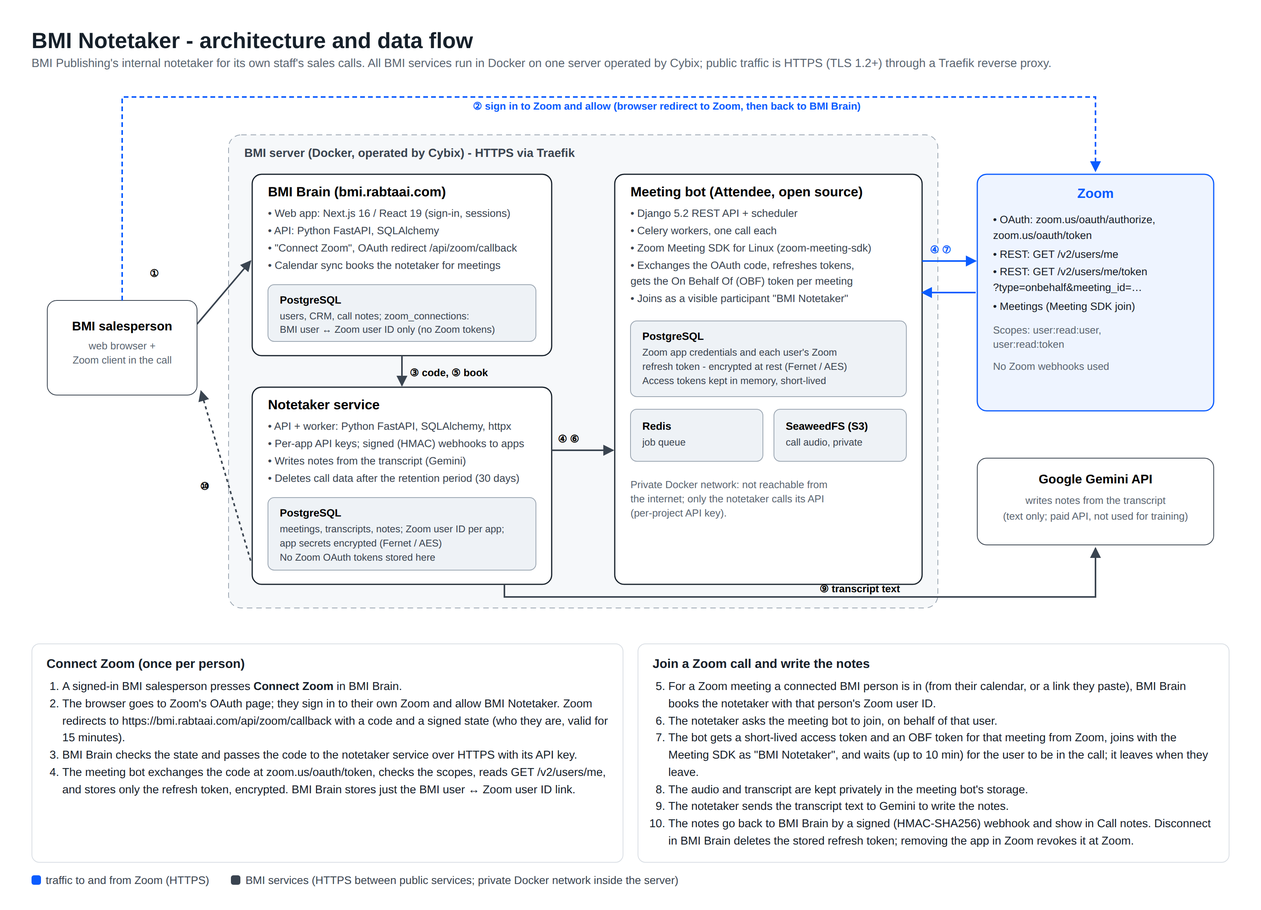
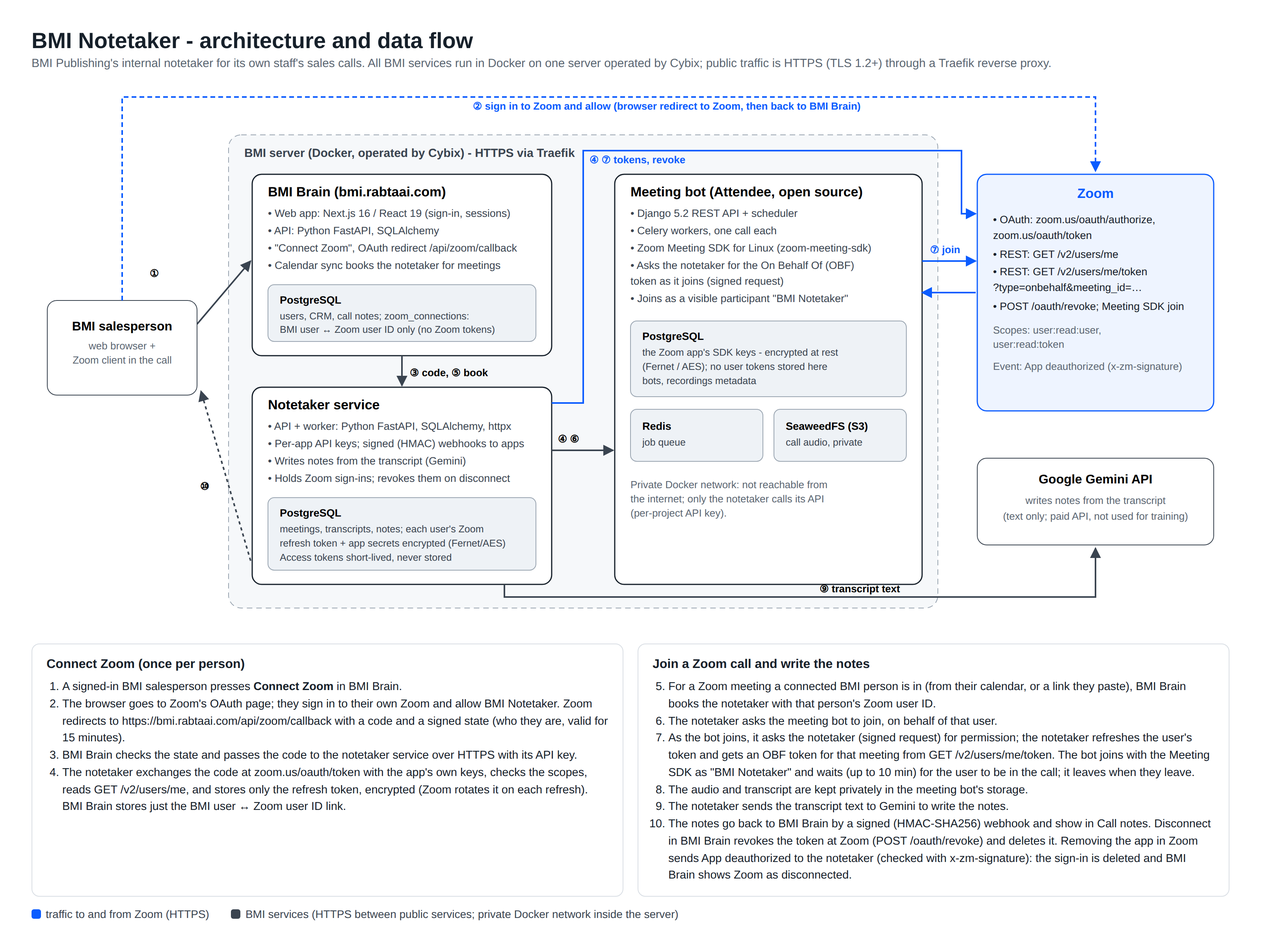
Zoom review: landing page, test plan, support hours, removal handled
- Public /zoom landing page with Connect Zoom, used for Zoom's 'Adding
  your app: From your site'. Signed-out visitors sign in first and come
  straight back.
- Public /zoom/test-plan for Zoom's reviewers: each scope and why, connect,
  send the notetaker, read the notes, and remove from both sides.
- Support page: hours, first-reply time, how to open a case, and what
  removing the app does to your data.
- When the notetaker says a Zoom sign-in has gone (removed in Zoom, or
  revoked), BMI Brain marks Zoom 'Reconnect' and notifies the person.
- Login follows a next= link to /api/... with a full page load.
- Updated architecture diagram, technical design answers and release notes
  in docs/zoom-review.

Claude-Session: https://claude.ai/code/session_01J85g9cS9eTm2Nwc22PmhDr

diff --git a/docs/zoom-review/architecture.html b/docs/zoom-review/architecture.html
@@ -46,12 +46,12 @@
  <text x="300" y="394" font-size="13.5" fill="#3a4450">• API + worker: Python FastAPI, SQLAlchemy, httpx</text>
  <text x="300" y="416" font-size="13.5" fill="#3a4450">• Per-app API keys; signed (HMAC) webhooks to apps</text>
  <text x="300" y="438" font-size="13.5" fill="#3a4450">• Writes notes from the transcript (Gemini)</text>
- <text x="300" y="460" font-size="13.5" fill="#3a4450">• Deletes call data after the retention period (30 days)</text>
+ <text x="300" y="460" font-size="13.5" fill="#3a4450">• Holds Zoom sign-ins; revokes them on disconnect</text>
  <rect x="300" y="480" width="340" height="92" rx="8" fill="#eef2f6" stroke="#9aa5b1"/>
  <text x="315" y="504" font-size="13.5" font-weight="700">PostgreSQL</text>
- <text x="315" y="524" font-size="12.5" fill="#3a4450">meetings, transcripts, notes; Zoom user ID per app;</text>
- <text x="315" y="542" font-size="12.5" fill="#3a4450">app secrets encrypted (Fernet / AES)</text>
- <text x="315" y="560" font-size="12.5" fill="#3a4450">No Zoom OAuth tokens stored here</text>
+ <text x="315" y="524" font-size="12.5" fill="#3a4450">meetings, transcripts, notes; each user's Zoom</text>
+ <text x="315" y="542" font-size="12.5" fill="#3a4450">refresh token + app secrets encrypted (Fernet/AES)</text>
+ <text x="315" y="560" font-size="12.5" fill="#3a4450">Access tokens short-lived, never stored</text>
 
  <!-- Attendee -->
  <rect x="740" y="70" width="390" height="520" rx="12" fill="#fff" stroke="#16202a" stroke-width="1.5"/>
@@ -59,14 +59,14 @@
  <text x="760" y="124" font-size="13.5" fill="#3a4450">• Django 5.2 REST API + scheduler</text>
  <text x="760" y="146" font-size="13.5" fill="#3a4450">• Celery workers, one call each</text>
  <text x="760" y="168" font-size="13.5" fill="#3a4450">• Zoom Meeting SDK for Linux (zoom-meeting-sdk)</text>
- <text x="760" y="190" font-size="13.5" fill="#3a4450">• Exchanges the OAuth code, refreshes tokens,</text>
- <text x="760" y="210" font-size="13.5" fill="#3a4450">   gets the On Behalf Of (OBF) token per meeting</text>
+ <text x="760" y="190" font-size="13.5" fill="#3a4450">• Asks the notetaker for the On Behalf Of (OBF)</text>
+ <text x="760" y="210" font-size="13.5" fill="#3a4450">   token as it joins (signed request)</text>
  <text x="760" y="232" font-size="13.5" fill="#3a4450">• Joins as a visible participant "BMI Notetaker"</text>
  <rect x="760" y="256" width="350" height="96" rx="8" fill="#eef2f6" stroke="#9aa5b1"/>
  <text x="775" y="280" font-size="13.5" font-weight="700">PostgreSQL</text>
- <text x="775" y="300" font-size="12.5" fill="#3a4450">Zoom app credentials and each user's Zoom</text>
- <text x="775" y="318" font-size="12.5" fill="#3a4450">refresh token - encrypted at rest (Fernet / AES)</text>
- <text x="775" y="336" font-size="12.5" fill="#3a4450">Access tokens kept in memory, short-lived</text>
+ <text x="775" y="300" font-size="12.5" fill="#3a4450">the Zoom app's SDK keys - encrypted at rest</text>
+ <text x="775" y="318" font-size="12.5" fill="#3a4450">(Fernet / AES); no user tokens stored here</text>
+ <text x="775" y="336" font-size="12.5" fill="#3a4450">bots, recordings metadata</text>
  <rect x="760" y="368" width="168" height="66" rx="8" fill="#eef2f6" stroke="#9aa5b1"/>
  <text x="775" y="394" font-size="13.5" font-weight="700">Redis</text>
  <text x="775" y="414" font-size="12.5" fill="#3a4450">job queue</text>
@@ -85,10 +85,10 @@
  <text x="1220" y="176" font-size="13.5" fill="#16202a">• REST: GET /v2/users/me</text>
  <text x="1220" y="198" font-size="13.5" fill="#16202a">• REST: GET /v2/users/me/token</text>
  <text x="1220" y="218" font-size="13.5" fill="#16202a">   ?type=onbehalf&amp;meeting_id=…</text>
- <text x="1220" y="242" font-size="13.5" fill="#16202a">• Meetings (Meeting SDK join)</text>
+ <text x="1220" y="242" font-size="13.5" fill="#16202a">• POST /oauth/revoke; Meeting SDK join</text>
  <text x="1220" y="272" font-size="13" fill="#5b6672">Scopes: user:read:user,</text>
  <text x="1220" y="290" font-size="13" fill="#5b6672">user:read:token</text>
- <text x="1220" y="318" font-size="13" fill="#5b6672">No Zoom webhooks used</text>
+ <text x="1220" y="318" font-size="13" fill="#5b6672">Event: App deauthorized (x-zm-signature)</text>
 
  <!-- Google -->
  <rect x="1200" y="430" width="300" height="110" rx="12" fill="#fff" stroke="#3a4450"/>
@@ -97,6 +97,8 @@
  <text x="1350" y="508" font-size="13" text-anchor="middle" fill="#5b6672">(text only; paid API, not used for training)</text>
 
  <!-- arrows -->
+ <path d="M 660 360 L 700 360 L 700 40 L 1180 40 L 1180 120 L 1198 120" fill="none" stroke="#0b5cff" stroke-width="2" marker-end="url(#z)"/>
+ <text x="708" y="56" font-size="13" fill="#0b5cff" font-weight="700">④ ⑦ tokens, revoke</text>
  <line x1="210" y1="260" x2="278" y2="180" stroke="#3a4450" stroke-width="2" marker-end="url(#a)"/>
  <text x="150" y="200" font-size="13" font-weight="700">①</text>
  <path d="M 115 230 L 115 -28 L 1350 -28 L 1350 66" fill="none" stroke="#0b5cff" stroke-width="2" stroke-dasharray="6 4" marker-end="url(#z)"/>
@@ -107,7 +109,7 @@
  <text x="668" y="410" font-size="13" font-weight="700">④ ⑥</text>
  <line x1="1130" y1="180" x2="1198" y2="180" stroke="#0b5cff" stroke-width="2" marker-end="url(#z)"/>
  <line x1="1198" y1="220" x2="1130" y2="220" stroke="#0b5cff" stroke-width="2" marker-end="url(#z)"/>
- <text x="1140" y="170" font-size="13" fill="#0b5cff" font-weight="700">④ ⑦</text>
+ <text x="1140" y="170" font-size="13" fill="#0b5cff" font-weight="700">⑦ join</text>
  <path d="M 600 590 L 600 606 L 1350 606 L 1350 544" fill="none" stroke="#3a4450" stroke-width="2" marker-end="url(#a)"/>
  <text x="1000" y="600" font-size="13" font-weight="700">⑨ transcript text</text>
  <line x1="278" y1="560" x2="215" y2="345" stroke="#3a4450" stroke-width="2" marker-end="url(#a)" stroke-dasharray="4 4"/>
@@ -119,15 +121,15 @@
   <li>A signed-in BMI salesperson presses <b>Connect Zoom</b> in BMI Brain.</li>
   <li>The browser goes to Zoom's OAuth page; they sign in to their own Zoom and allow BMI Notetaker. Zoom redirects to https://bmi.rabtaai.com/api/zoom/callback with a code and a signed state (who they are, valid for 15 minutes).</li>
   <li>BMI Brain checks the state and passes the code to the notetaker service over HTTPS with its API key.</li>
-  <li>The meeting bot exchanges the code at zoom.us/oauth/token, checks the scopes, reads GET /v2/users/me, and stores only the refresh token, encrypted. BMI Brain stores just the BMI user ↔ Zoom user ID link.</li>
+  <li>The notetaker exchanges the code at zoom.us/oauth/token with the app's own keys, checks the scopes, reads GET /v2/users/me, and stores only the refresh token, encrypted (Zoom rotates it on each refresh). BMI Brain stores just the BMI user ↔ Zoom user ID link.</li>
  </ol></div>
  <div><h3>Join a Zoom call and write the notes</h3><ol start="5">
   <li>For a Zoom meeting a connected BMI person is in (from their calendar, or a link they paste), BMI Brain books the notetaker with that person's Zoom user ID.</li>
   <li>The notetaker asks the meeting bot to join, on behalf of that user.</li>
-  <li>The bot gets a short-lived access token and an OBF token for that meeting from Zoom, joins with the Meeting SDK as "BMI Notetaker", and waits (up to 10 min) for the user to be in the call; it leaves when they leave.</li>
+  <li>As the bot joins, it asks the notetaker (signed request) for permission; the notetaker refreshes the user's token and gets an OBF token for that meeting from GET /v2/users/me/token. The bot joins with the Meeting SDK as "BMI Notetaker" and waits (up to 10 min) for the user to be in the call; it leaves when they leave.</li>
   <li>The audio and transcript are kept privately in the meeting bot's storage.</li>
   <li>The notetaker sends the transcript text to Gemini to write the notes.</li>
-  <li>The notes go back to BMI Brain by a signed (HMAC-SHA256) webhook and show in Call notes. Disconnect in BMI Brain deletes the stored refresh token; removing the app in Zoom revokes it at Zoom.</li>
+  <li>The notes go back to BMI Brain by a signed (HMAC-SHA256) webhook and show in Call notes. Disconnect in BMI Brain revokes the token at Zoom (POST /oauth/revoke) and deletes it. Removing the app in Zoom sends App deauthorized to the notetaker (checked with x-zm-signature): the sign-in is deleted and BMI Brain shows Zoom as disconnected.</li>
  </ol></div>
 </div>
 <div class="legend"><span><b style="background:#0b5cff"></b>traffic to and from Zoom (HTTPS)</span><span><b style="background:#3a4450"></b>BMI services (HTTPS between public services; private Docker network inside the server)</span></div>

diff --git a/frontend/src/app/(public)/zoom/test-plan/page.tsx b/frontend/src/app/(public)/zoom/test-plan/page.tsx
@@ -1,0 +1,66 @@
+import type { Metadata } from "next";
+import { LegalPage, Section } from "@/components/legal-page";
+import { LEGAL } from "@/content/legal";
+
+export const metadata: Metadata = { title: `Zoom review test plan - ${LEGAL.notetaker}` };
+
+/** Public: the step-by-step test plan for Zoom's Marketplace reviewers (no passwords here - the reviewer login is
+ * given in the submission's "Test account and credentials" box). */
+export default function ZoomTestPlanPage() {
+  return (
+    <LegalPage title="Test plan for Zoom reviewers" updated={LEGAL.updated}
+      intro={`How to test ${LEGAL.notetaker}: connecting a Zoom account, the notetaker joining a Zoom meeting on that person's behalf, the notes it writes, and removing the app. It takes about 15 minutes. There is one kind of user (a BMI salesperson); the reviewer login is in the submission's "Test account and credentials".`}>
+      <Section title="What you need">
+        <ul>
+          <li>The BMI Brain reviewer login from the submission. It can only see test clients, not real BMI data.</li>
+          <li>A Zoom account to connect (the reviewer&apos;s own is fine), and a second Zoom account or device to join the meeting as a guest, so there is someone to talk to.</li>
+        </ul>
+      </Section>
+
+      <Section title="Scopes and why they're used">
+        <ul>
+          <li><b>user:read:user</b> (View a user): once, when connecting, to read the Zoom user ID and account ID (GET /v2/users/me), so we know whose Zoom it is.</li>
+          <li><b>user:read:token</b> (View a user&apos;s token): just before each Zoom meeting, to get the &quot;On Behalf Of&quot; token for that meeting (GET /v2/users/me/token?type=onbehalf&amp;meeting_id=…). Zoom requires it for notetakers to join meetings outside their own account; the notetaker can only join once that user is in the meeting.</li>
+          <li>No other scopes. Event subscription: &quot;App deauthorized&quot; only.</li>
+        </ul>
+      </Section>
+
+      <Section title="1. Connect Zoom (tests authorisation and user:read:user)">
+        <ul>
+          <li>Go to <a className="underline" href="/zoom">bmi.rabtaai.com/zoom</a> and press <b>Connect Zoom</b>. Sign in to BMI Brain with the reviewer login when asked.</li>
+          <li>Zoom&apos;s consent screen opens: sign in to Zoom and press <b>Allow</b>.</li>
+          <li>You land on <b>Call notes, Meetings</b>. A green message says &quot;Zoom connected&quot;, and under <b>Your calendars</b> the <b>Zoom</b> row says &quot;Connected - the notetaker can join your Zoom calls&quot;.</li>
+        </ul>
+      </Section>
+
+      <Section title="2. Send the notetaker into a Zoom meeting (tests user:read:token)">
+        <ul>
+          <li>Start a Zoom meeting from the Zoom account you connected, and copy its invite link.</li>
+          <li>In BMI Brain, on <b>Call notes, Meetings</b>, paste the link into <b>Send the notetaker</b> (optionally add a title, e.g. &quot;Zoom review&quot;) and press <b>Send</b>.</li>
+          <li>Within a couple of minutes &quot;BMI Notetaker&quot; asks to join the meeting. Admit it from the waiting room if there is one. It shows in the participant list.</li>
+          <li>Talk for a minute or two with the second account, e.g. about booking an advert in a magazine issue, a price and a follow-up date.</li>
+          <li>Leave the meeting as the connected user: the notetaker leaves too (Zoom ends its session when the authorising user leaves).</li>
+        </ul>
+      </Section>
+
+      <Section title="3. Read the notes">
+        <ul>
+          <li>Open <b>Call notes, Recorded calls</b> and the call. Within a few minutes of the meeting ending its status becomes Completed.</li>
+          <li>You see a summary, actions with who does them and when, money and dates mentioned, and the full transcript with speaker names.</li>
+        </ul>
+      </Section>
+
+      <Section title="4. Remove the app (tests revoking and deauthorisation)">
+        <ul>
+          <li><b>From BMI Brain:</b> on <b>Call notes, Meetings, Your calendars</b>, next to Zoom press <b>Disconnect</b> and confirm. The token is revoked at Zoom (POST /oauth/revoke) and deleted; the row shows &quot;Connect Zoom&quot; again.</li>
+          <li><b>From Zoom:</b> connect again (step 1), then in the Zoom App Marketplace go to <b>Manage, Added Apps</b>, find {LEGAL.notetaker} and press <b>Remove</b>. Zoom sends the App deauthorized event; the sign-in is deleted, and BMI Brain shows Zoom as needing reconnection with a notification.</li>
+          <li>Either way, sending the notetaker to a Zoom link now asks you to connect Zoom first.</li>
+        </ul>
+      </Section>
+
+      <Section title="Documentation and contacts">
+        <p>User documentation (adding, using, removing, troubleshooting): <a className="underline" href="/support">bmi.rabtaai.com/support</a>. Privacy: <a className="underline" href="/privacy">bmi.rabtaai.com/privacy</a>. Questions during the review: <a className="underline" href={`mailto:${LEGAL.supportEmail}`}>{LEGAL.supportEmail}</a>.</p>
+      </Section>
+    </LegalPage>
+  );
+}

diff --git a/frontend/src/app/(public)/support/page.tsx b/frontend/src/app/(public)/support/page.tsx
@@ -10,15 +10,23 @@ export default function SupportPage() {
   return (
     <LegalPage title="Support" updated={LEGAL.updated}
       intro={`Help with ${LEGAL.product} and ${LEGAL.notetaker}. Signed-in BMI staff can also press the "?" Help button in the app, ask the Brain, or send Feedback from any page.`}>
-      <Section title="Contact us">
-        <p>Email {mail}. We reply on working days, usually the same day. Tell us what you were doing and, if you can, include a screenshot.</p>
+      <Section id="contact" title="Contact us">
+        <ul>
+          <li><b>Email:</b> {mail}. Every email opens a support case; you get a reply from a person, not an automatic one.</li>
+          <li><b>Hours:</b> {LEGAL.supportHours}.</li>
+          <li><b>First reply:</b> {LEGAL.firstReply}, and usually the same day. If the notetaker can&apos;t join calls at all, put &quot;Urgent&quot; in the subject and we&apos;ll look at it first.</li>
+          <li><b>Signed in to BMI Brain?</b> Press <b>Feedback</b> on any page to send it straight to the team, with a screenshot.</li>
+        </ul>
+        <p>Tell us what you were doing, which call it was, and if you can, include a screenshot.</p>
       </Section>
 
       <Section id="connect-zoom" title="Connect your Zoom">
+        <p><b>You need:</b> a BMI Brain login (BMI staff only) and your own Zoom account - a free one is fine.</p>
         <ul>
           <li>Sign in to BMI Brain and open <b>Call notes</b>, then <b>Meetings</b>.</li>
           <li>Under <b>Your calendars</b>, next to <b>Zoom</b>, press <b>Connect Zoom</b>.</li>
           <li>Sign in to Zoom with your own account and press <b>Allow</b>. You&apos;re taken back to BMI Brain, which shows Zoom as connected.</li>
+          <li>Or start from <a className="underline" href="/zoom">bmi.rabtaai.com/zoom</a> and press <b>Connect Zoom</b> (you&apos;ll be asked to sign in to BMI Brain first if you aren&apos;t).</li>
         </ul>
         <p>From then on, {LEGAL.notetaker} can join your Zoom calls. It joins once you&apos;re in the call and stops if you leave, so stay until the end.</p>
       </Section>
@@ -36,11 +44,18 @@ export default function SupportPage() {
           <li><b>In BMI Brain:</b> Call notes, Meetings, Your calendars, next to Zoom press <b>Disconnect</b>.</li>
           <li><b>Or in Zoom:</b> sign in at marketplace.zoom.us, choose <b>Manage</b>, then <b>Added Apps</b>, find {LEGAL.notetaker} and press <b>Remove</b>.</li>
         </ul>
-        <p>Either way, {LEGAL.notetaker} can&apos;t join your Zoom calls any more and BMI Brain stops using your Zoom permission. Notes from earlier calls stay in BMI Brain; email {mail} to have them deleted.</p>
+        <p><b>What removing it does:</b></p>
+        <ul>
+          <li>{LEGAL.notetaker} can no longer join your Zoom calls. Any Zoom call it was booked for won&apos;t be recorded.</li>
+          <li>Your Zoom permission is revoked at Zoom and deleted from our systems straight away. If you remove it in Zoom, Zoom tells us and we delete it the same way.</li>
+          <li>Recordings and transcripts of earlier calls are deleted after 30 days as usual. The written notes stay in BMI Brain as part of the client&apos;s history; email {mail} if you&apos;d like them deleted.</li>
+          <li>Meet and Teams calls aren&apos;t affected. You can connect Zoom again at any time.</li>
+        </ul>
       </Section>
 
       <Section title="Something's not right">
         <ul>
+          <li><b>Connect Zoom shows an error:</b> make sure you&apos;re signed in to Zoom with your own account (sign out of zoom.us first if someone else&apos;s is open) and try again.</li>
           <li><b>The notetaker didn&apos;t join a Zoom call:</b> check Zoom shows as connected (not &quot;Needs reconnecting&quot;), that you joined the call, and that someone let it in from the waiting room.</li>
           <li><b>No notes after a call:</b> they can take a few minutes. If nobody spoke, there are none.</li>
           <li><b>Anything else:</b> email {mail}.</li>

diff --git a/frontend/src/app/(public)/zoom/page.tsx b/frontend/src/app/(public)/zoom/page.tsx
@@ -1,0 +1,43 @@
+import type { Metadata } from "next";
+import { getSession } from "@/lib/session";
+import { LegalPage, Section } from "@/components/legal-page";
+import { Button } from "@/components/ui/button";
+import { LEGAL } from "@/content/legal";
+
+export const metadata: Metadata = { title: `${LEGAL.notetaker} for Zoom - ${LEGAL.product}` };
+
+/** Public: the Zoom app's landing page ("Adding your app": From your site). Signed-in staff connect Zoom from here;
+ * anyone else is told what it is and who to contact. */
+export default async function ZoomLandingPage() {
+  const session = await getSession();
+  return (
+    <LegalPage title={`${LEGAL.notetaker} for Zoom`} updated={LEGAL.updated}
+      intro={`${LEGAL.notetaker} joins your Zoom sales calls as a visible participant and writes up the notes in ${LEGAL.product}: a summary, the actions agreed and who does them, and the full transcript, saved onto the client's history. It's ${LEGAL.owner}'s own tool, for BMI staff.`}>
+      <div className="flex flex-wrap items-center gap-3">
+        <Button nativeButton={false} render={<a href="/api/zoom/connect" />}>Connect Zoom</Button>
+        <span className="text-sm text-muted-foreground">
+          {session ? `Signed in as ${session.name || session.email}.` : "You'll be asked to sign in to BMI Brain first."}
+        </span>
+      </div>
+
+      <Section title="What it does">
+        <ul>
+          <li>Joins the Zoom meetings on your calendar (you can skip any), or any Zoom link you send it.</li>
+          <li>Joins on your behalf, once you&apos;re in the call, and leaves when you leave. Everyone in the call can see it.</li>
+          <li>Writes the notes in BMI Brain after the call: summary, actions, money and dates mentioned, and the transcript.</li>
+        </ul>
+      </Section>
+
+      <Section title="Before you start">
+        <ul>
+          <li>A BMI Brain login. {LEGAL.product} is for {LEGAL.owner} staff only; if you work at BMI and don&apos;t have one, ask your manager.</li>
+          <li>Your own Zoom account (a free one is fine).</li>
+        </ul>
+      </Section>
+
+      <Section title="Help">
+        <p>Step-by-step guides for connecting, using and removing it are on the <a className="underline" href="/support">Support</a> page. How your information is handled: <a className="underline" href="/privacy">Privacy</a>.</p>
+      </Section>
+    </LegalPage>
+  );
+}

diff --git a/frontend/src/app/api/zoom/connect/route.ts b/frontend/src/app/api/zoom/connect/route.ts
@@ -10,7 +10,7 @@ export async function GET(request: Request) {
   const session = await getSession();
   const url = new URL(request.url);
   const base = publicBase(request);
-  if (!session) return NextResponse.redirect(new URL("/login", base));
+  if (!session) return NextResponse.redirect(new URL("/login?next=/api/zoom/connect", base));
   const returnTo = url.searchParams.get("return_to") || "/calls/meetings";
   try {
     const { url: authorize } = await backendFetch<{ url: string }>(`/api/zoom/start?return_to=${encodeURIComponent(returnTo)}`);

diff --git a/frontend/src/app/login/login-form.tsx b/frontend/src/app/login/login-form.tsx
@@ -39,7 +39,14 @@ export function LoginForm() {
       return;
     }
 
-    router.push(searchParams.get("next") || "/");
+    const next = searchParams.get("next") || "/";
+    // only our own pages; a sign-in link (e.g. Connect Zoom, /api/zoom/connect) needs a full page load
+    const safe = next.startsWith("/") && !next.startsWith("//") ? next : "/";
+    if (safe.startsWith("/api/")) {
+      window.location.assign(safe);
+      return;
+    }
+    router.push(safe);
     router.refresh();
   }
 

diff --git a/frontend/src/content/legal.ts b/frontend/src/content/legal.ts
@@ -6,6 +6,9 @@ export const LEGAL = {
   owner: "BMI Publishing Ltd",
   builder: "Cybix",
   supportEmail: "ahmed@cybix.ai",
+  /** Support hours and first reply time, shown on the Support page (Zoom asks for both). */
+  supportHours: "Monday to Friday, 9:00 to 17:30 UK time (closed on UK bank holidays)",
+  firstReply: "within one working day",
   updated: "22 October 2026",
   site: "https://bmi.rabtaai.com",
 };

diff --git a/frontend/src/proxy.ts b/frontend/src/proxy.ts
@@ -58,6 +58,6 @@ export async function proxy(request: NextRequest) {
 
 export const config = {
   matcher: [
-    "/((?!login|privacy|terms|support|api/login|api/notetaker|api/booking-forms|_next/static|_next/image|favicon.ico).*)",
+    "/((?!login|privacy|terms|support|zoom|api/login|api/notetaker|api/booking-forms|_next/static|_next/image|favicon.ico).*)",
   ],
 };

diff --git a/backend/tests/test_zoom_connect.py b/backend/tests/test_zoom_connect.py
@@ -100,3 +100,17 @@ def test_zoom_meetings_go_on_behalf_of_the_organiser(db_session, people, zoom_on
 def test_zoom_view_for_the_meetings_page(db_session, zoom_on):
     sally = make_user(db_session, role="sales", name="Sally Parker")
     assert zoom.view(db_session, sally.id) == {"available": True, "connected": False, "status": None, "last_error": None, "connected_at": None}
+
+
+def test_zoom_removed_in_zoom_shows_reconnect(client, db_session, monkeypatch):
+    from app.models import Notification
+    from tests.test_calls import _signed
+    monkeypatch.setattr(settings, "notetaker_webhook_secret", "s3cret")
+    sally = make_user(db_session, role="sales", name="Sally Parker")
+    db_session.add(ZoomConnection(id=uuid.uuid4(), user_id=sally.id, zoom_user_id="zu_sally"))
+    db_session.flush()
+    raw, h = _signed({"id": "m1", "event": "zoom.disconnected", "data": {"zoom_user_id": "zu_sally", "reason": "removed"}}, "s3cret")
+    assert client.post("/api/calls/webhook", content=raw, headers=h).status_code == 200
+    conn = db_session.query(ZoomConnection).filter_by(user_id=sally.id).one()
+    assert conn.status == "error" and "Reconnect" in conn.last_error
+    assert db_session.query(Notification).filter_by(user_id=sally.id, title="Your Zoom was disconnected").count() == 1

diff --git a/backend/app/api/routes/calls.py b/backend/app/api/routes/calls.py
@@ -181,6 +181,16 @@ async def webhook(request: Request, db: Session = Depends(get_db)):
         raise HTTPException(401, "Not allowed.")
     msg = json.loads(body)
     data = msg.get("data") or {}
+    if msg.get("event") == "zoom.disconnected":   # removed in Zoom, or the sign-in stopped working
+        from app.models import ZoomConnection
+        from app.services.notify import create_notification
+        for conn in db.scalars(select(ZoomConnection).where(ZoomConnection.zoom_user_id == (data.get("zoom_user_id") or ""))):
+            conn.status, conn.last_error = "error", "Zoom isn't connected any more. Press Reconnect to let the notetaker join your Zoom calls again."
+            create_notification(db, conn.user_id, "call_notes", "Your Zoom was disconnected",
+                                "The notetaker can't join your Zoom calls until you press Reconnect next to Zoom under Your calendars.",
+                                link="/calls/meetings", email=False)
+        db.commit()
+        return {"ok": True}
     call_id = (data.get("metadata") or {}).get("bmi_call_id")
     c = db.get(CallRecording, uuid.UUID(call_id)) if call_id else None
     if not c:

diff --git a/docs/HANDOFF.md b/docs/HANDOFF.md
@@ -210,6 +210,7 @@ Sidebar > **Editorial plan** (`/editorial`): year planner (lanes per title, toda
 - **Ask AI phase 3 - reads the whole app (15 Oct):** **Permission rule (Ahmed):** the assistant only answers about what the person can open themselves - their role (Automations Hub / Data Health = admins and data managers, Users and Sections = admins) plus the section switches in Settings > Sections. `app/brain/access.py` (`require`, `require_any`, `blocked`, `section_for(path)`); every tool checks it, help guides are refused by their main screen's section, and each question's `<context>` lists what the person can't open, answered with "You don't have permission to view that." New tools: `tools/automations.py` (`automations_overview`, `automation_detail`, `review_queue_status`, `review_items` - queue counts scoped exactly like the queue via `review_queue._apply_scope`), `tools/settings.py` (`my_settings`, `person_settings` admins only, `settings_lookup` over automation settings, confirmation details, editorial brand rules, switched-off sections, connections - never keys or error text), `tools/editorial.py` (`editorial_deadlines`, `editorial_upcoming`, `editorial_issue` incl. who to pitch), more in `tools/crm.py` (`crm_contact`, `crm_groups`, `calls_recent`, `team_activity`, `feedback_open`, `data_health`). Live automation state comes from one place: `app/automations/status.py` (`overview`, `detail`, `schedule_words`). Guides now cover every area (`help/crm`, `help/editorial`, `help/automations`, `help/platform`); **they're no longer all in the fixed prompt** - only the list is; the page's guide is added to the first question asked on that page (`runner.page_guide`), others are read with `help_read_guide`. `tests/test_help_coverage.py` checks every area's buttons. Things the guide writers flagged: `docs/app-review-notes.md`.
 - **BACKLOG - fix later (Ahmed, 16 Oct): the security items at the top of `docs/app-review-notes.md`** - user create/edit has no server-side admin check; anyone can change another person's preferences; bulk-update history can be undone by anyone; contact/company/group delete routes have no role check; exporting ticked contacts doesn't re-check database access. The rest of that file and `docs/sales-orders-review-notes.md` are also still to work through.
 - **Zoom for the notetaker (22 Oct):** Zoom only lets a notetaker in **on behalf of** a signed-in person who is in the call (Zoom's notetaker rule since Mar 2026 - the app's "meeting bot or AI notetaker" switch is ON, which rules out a shared ZAK account). One Zoom General app (user-managed; scopes `user:read:user` + `user:read:token`; Meeting SDK on), made in the Zoom account that owns it. **Notetaker** (`notetaker` branch, generic for any project): each app's own Zoom Client ID + Secret go on the app in the notetaker console (Apps > Edit) - nothing in Environment; the `attendee-sync` container gives that app its own Attendee project with its `ZoomOAuthApp` (Attendee holds one set of Zoom keys per project); `GET /v1/zoom`, `POST/GET/DELETE /v1/zoom/connections`, `POST /v1/meetings` takes `zoom_user_id` (bot `zoom_settings.onbehalf_token`, waits 600 s for that person). **BMI Brain:** table `zoom_connections` (migration 0067), `app/services/zoom.py`, routes `/api/zoom/start|callback|connection`, frontend `/api/zoom/connect` + `/api/zoom/callback` (= the Zoom app's Redirect URL, `{APP_BASE_URL}/api/zoom/callback`, or `ZOOM_REDIRECT_URI`). A callback without our state (Zoom's own "Add App Now") connects whoever is signed in. "Your calendars" has a Zoom row (Connect Zoom / Reconnect / Disconnect); Zoom meetings go on behalf of the BMI organiser if connected, else anyone going who is (`calendar_sync.zoom_person`); otherwise "Nobody from BMI in it has connected Zoom". Pasting a Zoom link uses the sender's Zoom. The Notetaker check has a Zoom line. Until Zoom reviews the app, only meetings hosted by the app's own Zoom account can be joined. Tests `tests/test_zoom_connect.py` + notetaker `tests/test_flow.py`.
+- **Zoom review prep (22 Oct):** the notetaker (not Attendee) now holds each person's Zoom sign-in (`notetaker/zoomapi.py`): code exchange, rotating refresh token (encrypted), On Behalf Of token per call handed to the bot via `callback_settings.zoom_tokens_url` (`/hooks/zoom-tokens`, signed), revoke on Disconnect, Zoom's `app_deauthorized` at `/hooks/zoom/<app>` (x-zm-signature, app's Secret Token pasted in the console) -> `zoom.disconnected` webhook -> BMI Brain marks Zoom "Reconnect" and notifies (`calls.py` webhook). Public `/zoom` (landing page for "Adding your app: From your site") and `/zoom/test-plan`; Support page has hours + first reply (`content/legal.ts`). Login `next` now handles `/api/...` (full page load). Submission texts: `docs/zoom-review/` (technical-design.md, release-notes.md, architecture diagram).
 - **Public Privacy / Terms / Support pages (22 Oct, for Zoom's review):** `/privacy`, `/terms`, `/support` (`frontend/src/app/(public)/`, shared look `components/legal-page.tsx`), open without signing in (added to the `proxy.ts` matcher's exceptions). Who runs it and the contact email live in `frontend/src/content/legal.ts` - change them there. Support covers connecting and removing BMI Notetaker on Zoom (`/support#connect-zoom`, `/support#remove-zoom`), which Zoom asks for. Keep the Privacy page in step if what BMI Brain stores changes.
 - **Who looks after each client (21 Oct, Matt's rules of 20 Oct):** `app/sales/ownership.py` (rules + the five "areas": `obh`, `tbtm`, `stm`, `stm-events`, `accessibility`), `app/sales/regions.py` (Selling Travel regions -> rep, place names; destination read from the company's name/description/website, never its address; Turkey, Egypt, Cyprus and Georgia deliberately left to ask), table `client_owners` (migration 0066, one row per company per area; `chosen` rows are a person's decision and never recomputed). Order: product (TBTM + its events incl. Business Travel People Awards -> Kirsty; Selling Travel events incl. Connect -> Steve; Travel for Every Body = Accessibility Awards -> David) -> last contact or booking by that magazine's team (OBH: SW, CM; STM: SP, ST, DW - edit `AREAS`) within `ownership_recent_years` (2, Matt to confirm) -> OBH new business -> Craig -> STM by region -> several regions: last contact ever, else nobody ("first to take it") -> "not sure": Review Queue kind `client_owner` (admins/data managers; Use the suggestion / Someone else (drop-down, new review field type `select` with `payload.field_options`) / Not now; max `ownership_max_questions` (50) new a night). Job `client_owner_refresh` nightly 01:40, flag `automations_client_owners_enabled` (on). Company page panel `components/company-owners.tsx` (+ Change sheet, Back to the rules; `GET/PUT /api/companies/{id}/owners[/{area}]`, staff only to change). Renewals go to the owner first (`renewals.owner_user_id`); the Brain's client snapshot says who looks after them. **Act! note authors weren't migrated:** new columns `notes.act_author` / `history_entries.act_author`, filled by `migration/backfill_note_authors.py --source-db <db>` (etl.py now keeps them too). Until that runs, only bookings and notes made in BMI Brain count as contact. Tests `tests/test_client_owners.py`.
 - **Security + speed (18 Oct):** the security items in `docs/app-review-notes.md` are fixed (see the list there; shared role checks in `app/core/guards.py`, tests `tests/test_permissions.py`). The backend now checks the account on every call (`core/identity.get_identity`: a switched-off account gets a 401 with `X-BMI-Signed-Out`, and the role is read fresh), `GET /api/auth/me` returns the person as they are now, and the frontend `proxy.ts` refreshes the session cookie from it once a minute (signs out a switched-off account; new role/databases show without signing in again). Hidden sections also block their pages (`components/section-gate.tsx` + `lib/section-routes.ts` - add new pages' paths there). **Speed**, measured on a copy with 118k contacts / 472k history / 94k activities: Calendar list 2.3s -> 0.02s (it loaded every activity to count them), contact search 1.4s -> 0.07-0.19s (`contact_lookup._quick_match` is now a union of per-table index lookups; the `SEARCH_*` expressions must match migration `0061_search_speed.py` exactly), Home stats 0.7s -> 0.15s (top companies counted once, grouped). `backendFetch` accepts `next` for a short cache (`CACHED` in lib/backend.ts: publications, hidden sections; cleared with `updateTag`). **Deploy: run the migration (0061) - it builds the indexes, about a minute on production data.**

diff --git a/docs/zoom-review/technical-design.md b/docs/zoom-review/technical-design.md
@@ -14,13 +14,13 @@ BMI Notetaker is BMI Publishing's internal notetaker, used only by BMI staff on 
    - Python 3.11, FastAPI, SQLAlchemy 2, httpx, PostgreSQL 16, cryptography (Fernet) for secrets at rest.
    - Google Gemini API (google-genai) to write notes from the transcript text.
    - Sends results to BMI Brain by webhooks signed with HMAC-SHA256.
+   - Holds each user's Zoom sign-in: OAuth code exchange and refresh (zoom.us/oauth/token), GET /v2/users/me, GET /v2/users/me/token?type=onbehalf&meeting_id={id}, POST zoom.us/oauth/revoke. Scopes: user:read:user, user:read:token. The refresh token is stored encrypted (Fernet / AES-128 with HMAC-SHA256); access tokens are short-lived and not stored.
 3. Meeting bot - Attendee (open source, github.com/attendee-labs/attendee), self-hosted, unmodified.
    - Django 5.2 REST API, Celery 5.4 workers, Redis, PostgreSQL, SeaweedFS (S3-compatible private storage for call audio).
    - Zoom Meeting SDK for Linux (zoom-meeting-sdk) to join as a visible participant named "BMI Notetaker".
-   - Zoom APIs: OAuth token exchange and refresh (zoom.us/oauth/token), GET /v2/users/me, GET /v2/users/me/token?type=onbehalf&meeting_id={id} (On Behalf Of token). Scopes: user:read:user, user:read:token.
-   - Each user's Zoom refresh token is stored encrypted (Fernet / AES-128 with HMAC); access tokens are short-lived and not stored.
+   - Asks the notetaker for the On Behalf Of token as it joins each Zoom call (signed request).
 
-No Zoom webhooks/event subscriptions are used. Zoom data is used only to join meetings on behalf of the BMI user who connected their Zoom, while they are in the meeting.
+Zoom events: App deauthorized only (signed, checked with x-zm-signature). Disconnecting revokes the token at Zoom (POST /oauth/revoke). Zoom data is used only to join meetings on behalf of the BMI user who connected their Zoom, while they are in the meeting.
 
 ## Application development
 1. SSDLC - No (answer Yes only with a written process to upload).
@@ -30,7 +30,7 @@ No Zoom webhooks/event subscriptions are used. Zoom data is used only to join me
 
 ## Security
 1. TLS 1.2 or above for all network traffic - Yes. Public endpoints (bmi.rabtaai.com, the notetaker) are HTTPS only via Traefik (minimum TLS 1.2); all calls to Zoom, Google and Microsoft are HTTPS. Traffic between our own containers stays on a private Docker network on the same server.
-2. Verification token / x-zm-signature for Zoom webhooks - No: the app doesn't subscribe to any Zoom webhooks, so there are none to verify.
+2. Verification token / x-zm-signature for Zoom webhooks - Yes: the only event used is App deauthorized, sent to https://<notetaker>/hooks/zoom/<app id>; every request is checked with x-zm-signature (HMAC-SHA256 of v0:{x-zm-request-timestamp}:{body} with the app's Secret Token, requests older than 5 minutes refused), and Zoom's endpoint.url_validation is answered.
 3. Collect, store, log or retain Zoom user data, including OAuth tokens - Yes:
    - Zoom user ID and account ID (to know whose Zoom to use).
    - Refresh token, encrypted at rest in the meeting bot's database; deleted when the user disconnects.
@@ -38,7 +38,7 @@ No Zoom webhooks/event subscriptions are used. Zoom data is used only to join me
    - Tokens are never written to logs.
 
 ## How Zoom user data is protected at rest
-- Zoom OAuth refresh tokens (and the Zoom app's client secret): encrypted field by field in the meeting bot's PostgreSQL database with Fernet (AES-128-CBC + HMAC-SHA256). The key is a server setting (CREDENTIALS_ENCRYPTION_KEY), not stored in the database. Access tokens are short-lived and never stored. Deleted when the user disconnects.
+- Zoom OAuth refresh tokens (and the Zoom app's client secret): encrypted field by field in the notetaker's PostgreSQL database with Fernet (AES-128-CBC + HMAC-SHA256). The key is a server setting (ENCRYPTION_KEY), not stored in the database. Zoom app keys passed to the meeting bot are encrypted the same way in its database (CREDENTIALS_ENCRYPTION_KEY). Access tokens are short-lived and never stored. Deleted when the user disconnects.
 - Call audio: encrypted in object storage (SeaweedFS, -filer.encryptVolumeData) with AES-256-GCM and a separate key per chunk, kept apart from the data. Deleted after 30 days.
 - Zoom user ID, transcripts and notes: in PostgreSQL databases that aren't reachable from the internet (private Docker network on one server), only by our services with their own credentials; staff see them only after signing in, limited by role. Transcripts are deleted after 30 days. Other secrets (app API keys, Gemini keys) are stored hashed or encrypted.
 - Tokens and secrets are never written to logs.
